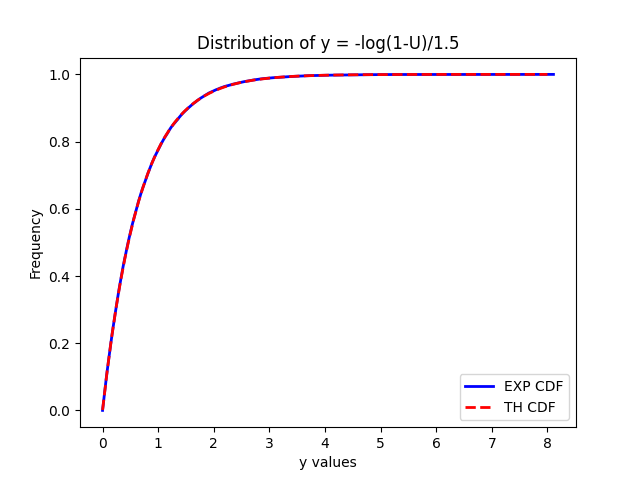
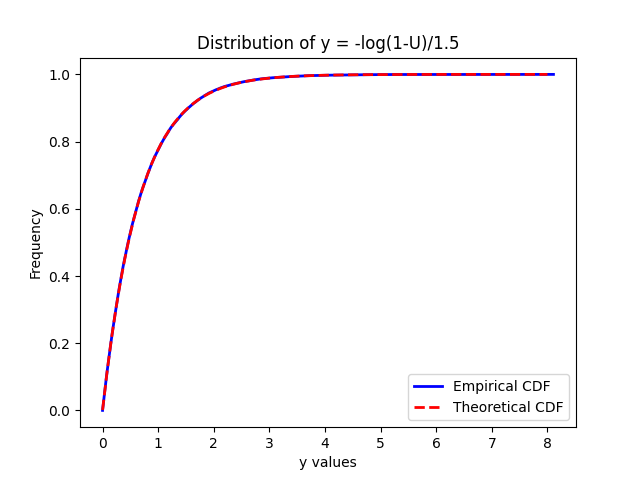
Refinements

Changed region(s): [[0.625, 0.7812, 0.875, 0.875], [0.625, 0.8438, 0.6875, 0.875]]

diff --git a/Homework07/Ex4_5_plotter.py b/Homework07/Ex4_5_plotter.py
@@ -22,12 +22,12 @@ plt.legend()
 plt.savefig("Ex4_plot.png")
 
 plt.figure()
-plt.plot(df['CDF_x'],df['CDF_y'],color='b',linewidth=2, label='EXP CDF')
+plt.plot(df['CDF_x'],df['CDF_y'],color='b',linewidth=2, label='Empirical CDF')
 
 y_vals = np.linspace(0.001, 8.0, 100)
 curve = 1.0 - np.exp(-1.5 * y_vals)
 
-plt.plot(y_vals, curve, color='r', linestyle='--', linewidth=2, label=r'TH CDF')
+plt.plot(y_vals, curve, color='r', linestyle='--', linewidth=2, label=r'Theoretical CDF')
 
 plt.xlabel('y values')
 plt.ylabel('Frequency')

diff --git a/Homework06/vector_sum_HP5.c b/Homework06/vector_sum_HP5.c
@@ -4,7 +4,7 @@
 #include <math.h>
 #include <hdf5.h>
 
-
+//compile with gcc vector_sum_HP5.c -I/usr/include/hdf5/serial -L/usr/lib/x86_64-linux-gnu/hdf5/serial -lhdf5
 void parse_config(const char *filename, int *n, int *chunk_size, double *a, double *x, double *y) {
     FILE *file = fopen(filename, "r");
     if (!file) {

diff --git a/Homework07/Ex4_5.c b/Homework07/Ex4_5.c
@@ -1,3 +1,5 @@
+// Compile with: gcc Ex4_5.c -lm
+
 #include <stdint.h>
 #include <stdio.h>
 #include <math.h>

diff --git a/Homework06/Homework06.md b/Homework06/Homework06.md
@@ -8,9 +8,9 @@ $$
 
 The programs allow the user to specify from a `config.txt` file:
 
-- The size $ N $ of the vectors $ \vec{x} $ and $ \vec{y} $  
+- The size $N$ of the vectors $\vec{x}$ and $\vec{y}$  
 - The scalar value $ a $  
-- The value assigned to all elements of $ \vec{x} $ and $ \vec{y} $ 
+- The value assigned to all elements of $\vec{x}$ and $\vec{y}$ 
 - The chuck size 
 
 The operation is done in chucks and it is validated against the algorithm in `Homework02`
